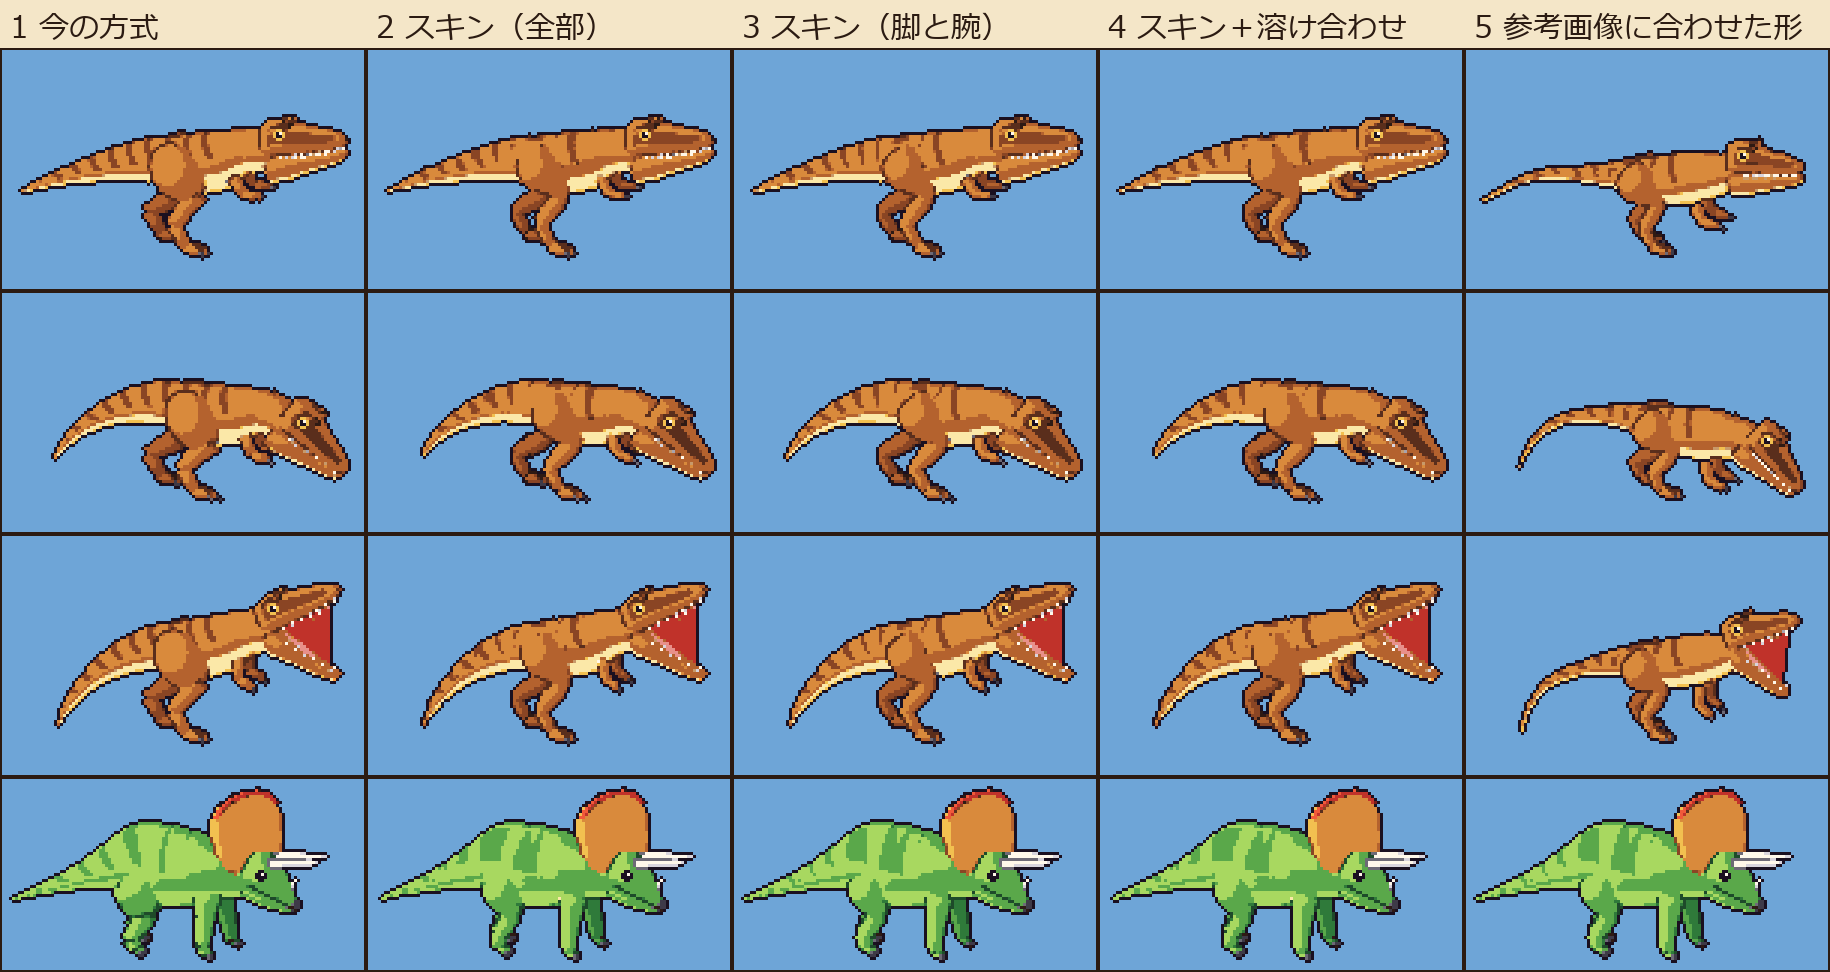
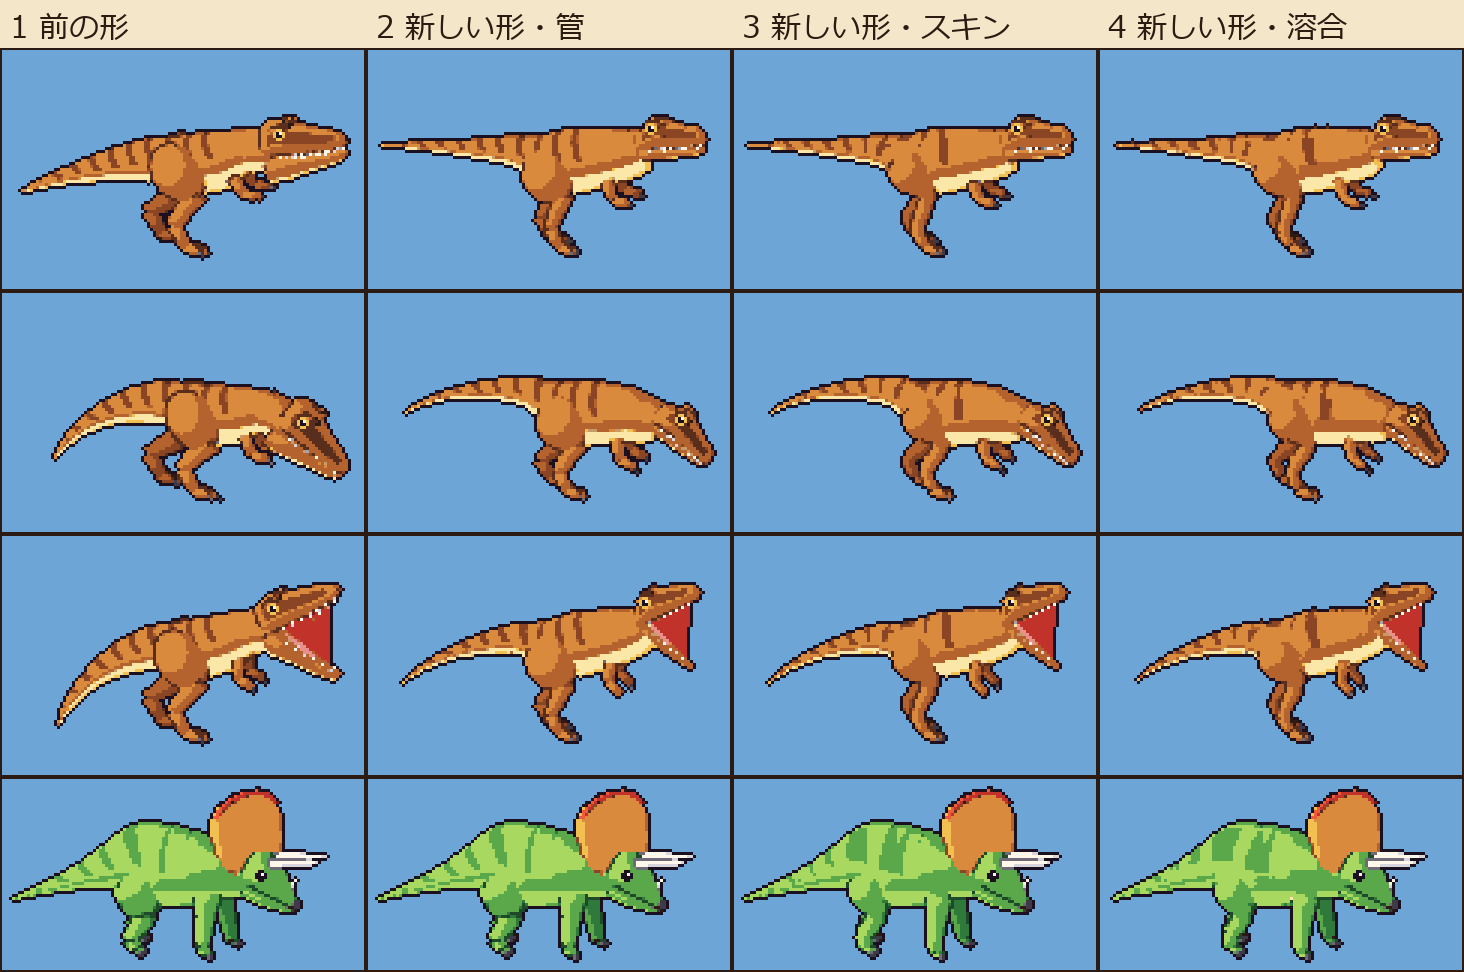
Rebuild the T-rex model from the kyouryu.info reference (trial, not in the game yet)
- New TYRANNO numbers measured from the side-view silhouette (overlap 55% -> about 82%); previous shape kept as TYRANNO_PREV (--prev)
- Comparison page now shows the previous shape and the rebuilt shape with three build methods

diff --git a/art/output/model-options/index.js b/art/output/model-options/index.js
@@ -1,2 +1,2 @@
 // art/model_options.py が自動で書き出すファイル。体の作り方の比較ページ（tools/models.html）用
-window.EYE_OPT = {"options":{"1":"1 今の方式","2":"2 スキン（全部）","3":"3 スキン（脚と腕）","4":"4 スキン＋溶け合わせ","5":"5 参考画像に合わせた形"},"dinos":{"tyranno":{"w":128,"h":96,"n":22,"anims":{"idle":{"s":0,"n":4,"ms":[220,200,220,200],"loop":true,"box":[11,26,122,76]},"hit":{"s":4,"n":2,"ms":[160,160],"loop":false,"box":[13,21,121,76]},"faint":{"s":6,"n":3,"ms":[180,200,400],"loop":false,"box":[10,18,120,83]},"bite":{"s":9,"n":7,"ms":[200,300,120,160,90,90,160],"loop":false,"box":[8,14,124,76]},"roar":{"s":16,"n":6,"ms":[260,260,160,90,90,200],"loop":false,"box":[9,8,123,76]}},"diet":"carnivore","sheets":{"1":"art/output/model-options/tyranno_1.png","2":"art/output/model-options/tyranno_2.png","3":"art/output/model-options/tyranno_3.png","4":"art/output/model-options/tyranno_4.png","5":"art/output/model-options/tyranno_5.png"},"gy":25.5,"eye0":[97.5,34.2]},"triceratops":{"w":128,"h":96,"n":4,"anims":{"idle":{"s":0,"n":4,"ms":[240,220,240,220],"loop":true,"box":[13,17,122,76]}},"diet":"herbivore","sheets":{"1":"art/output/model-options/triceratops_1.png","2":"art/output/model-options/triceratops_2.png","3":"art/output/model-options/triceratops_3.png","4":"art/output/model-options/triceratops_4.png","5":"art/output/model-options/triceratops_5.png"},"gy":25.3,"eye0":[97.4,46.9]}},"iou":{"tyranno":{"1":0.3,"2":0.303,"3":0.294,"4":0.303,"5":0.592},"triceratops":{"1":0.764,"2":0.765,"3":0.763,"4":0.765,"5":0.763}}};
+window.EYE_OPT = {"options":{"1":"1 前の形","2":"2 新しい形・管","3":"3 新しい形・スキン","4":"4 新しい形・溶合"},"dinos":{"tyranno":{"w":128,"h":96,"n":22,"anims":{"idle":{"s":0,"n":4,"ms":[220,200,220,200],"loop":true,"box":[11,26,122,76]},"hit":{"s":4,"n":2,"ms":[160,160],"loop":false,"box":[13,21,121,76]},"faint":{"s":6,"n":3,"ms":[180,200,400],"loop":false,"box":[10,18,120,83]},"bite":{"s":9,"n":7,"ms":[200,300,120,160,90,90,160],"loop":false,"box":[8,14,124,76]},"roar":{"s":16,"n":6,"ms":[260,260,160,90,90,200],"loop":false,"box":[9,8,123,76]}},"diet":"carnivore","sheets":{"1":"art/output/model-options/tyranno_1.png","2":"art/output/model-options/tyranno_2.png","3":"art/output/model-options/tyranno_3.png","4":"art/output/model-options/tyranno_4.png"},"gy":25.5,"eye0":[97.5,34.2]},"triceratops":{"w":128,"h":96,"n":4,"anims":{"idle":{"s":0,"n":4,"ms":[240,220,240,220],"loop":true,"box":[13,17,122,76]}},"diet":"herbivore","sheets":{"1":"art/output/model-options/triceratops_1.png","2":"art/output/model-options/triceratops_2.png","3":"art/output/model-options/triceratops_3.png","4":"art/output/model-options/triceratops_4.png"},"gy":25.3,"eye0":[97.4,46.9]}},"iou":{"tyranno":{"1":0.551,"2":0.8,"3":0.816,"4":0.826},"triceratops":{"1":0.764,"2":0.764,"3":0.763,"4":0.765}}};

diff --git a/tools/models.html b/tools/models.html
@@ -3,7 +3,7 @@
 <head>
 <meta charset="utf-8">
 <meta name="viewport" content="width=device-width, initial-scale=1">
-<title>DINO DUEL 体の作り方の比較</title>
+<title>DINO DUEL ティラノの作り直し</title>
 <style>
   body { margin: 0; padding: 10px 6px 40px; background: #f4e6c8; color: #2b1b12; font-family: sans-serif; }
   h1 { font-size: 17px; margin: 4px 0 6px; }
@@ -29,9 +29,9 @@
 </style>
 </head>
 <body>
-<h1>体の作り方（モデリングの方式）の比較</h1>
+<h1>ティラノサウルスの作り直し</h1>
 <p class="note">恐竜の大きさは、<b>この画面でバトルをしたときと同じ</b>です（1ドット = <span id="ps"></span>px）。<br>
-1 今の方式（胴体は管、脚は管とだ円の筋肉）／2 スキンモディファイアで全部を1つに／3 胴体は管のまま、脚と腕だけスキンモディファイア／4 3 のあと全部を溶け合わせて1つに／5 3 の作り方で、ティラノの体と脚を参考画像に合わせた形。目はどれも案A。<br>
+1 前の形（2回目の確認で OK をもらった形）／2〜4 恐竜図鑑（kyouryu.info）の画像を参考に作り直した形。作り方だけちがう：2 今の作り方（胴体は管、脚は管とだ円の筋肉）・3 脚と腕をスキンモディファイアで・4 3 のあと全部を溶け合わせて1つに。目はどれも案A。トリケラトプスは作り方のちがいだけ。<br>
 <label><input type="checkbox" id="flip"> 相手側（左右反転）で見る</label></p>
 <div id="rows"></div>
 <script src="../art/output/model-options/index.js"></script>

diff --git a/art/model_options.py b/art/model_options.py
@@ -36,24 +36,23 @@ from pipeline.blender_path import find_blender
 ROOT = os.path.dirname(os.path.abspath(__file__))
 OUT = os.path.join(ROOT, "output", "model-options")
 KEYS = ["tyranno", "triceratops"]
-MODES = [("1", "", "1 今の方式"), ("2", "full", "2 スキン（全部）"), ("3", "limbs", "3 スキン（脚と腕）"), ("4", "fuse", "4 スキン＋溶け合わせ"),
-         ("5", "limbs+fit", "5 参考画像に合わせた形")]
-REFS = {"tyranno": "trex.png", "triceratops": "tricera.png"}
+MODES = [("1", "+prev", "1 前の形"), ("2", "", "2 新しい形・管"), ("3", "limbs", "3 新しい形・スキン"), ("4", "fuse", "4 新しい形・溶合")]
+REFS = {"tyranno": "ky_side_mask.png", "triceratops": "tricera.png"}
 BG = (110, 165, 215, 255)
 
 
 def renders_dir(mode):
-    return os.path.join(build.BUILD, "m_" + (mode or "base")[:2] + ("f" if mode.endswith("+fit") else ""))     # 短い名前（Windows のファイルの場所の長さの上限 260文字 をこえないように）
+    return os.path.join(build.BUILD, "m_" + (mode.split("+")[0] or "base")[:2] + ("p" if mode.endswith("+prev") else ""))     # 短い名前（Windows のファイルの場所の長さの上限 260文字 をこえないように）
 
 
 def render(mode):
     os.makedirs(renders_dir(mode), exist_ok=True)    # 先に作っておく（Blender からは新しいフォルダを作れないことがある）
     cmd = [find_blender(), "-b", "--factory-startup", "--python-exit-code", "1", "-P", os.path.join(ROOT, "blender", "render_all.py"), "--",
            "--out", renders_dir(mode), "--jobs", "dinos", "--only", ",".join(KEYS), "--profile", "--no-model"]
-    if mode:
+    if mode.split("+")[0]:
         cmd += ["--skin", mode.split("+")[0]]
-    if mode.endswith("+fit"):
-        cmd += ["--fit"]
+    if mode.endswith("+prev"):
+        cmd += ["--prev"]
     p = subprocess.run(cmd, stdout=subprocess.PIPE, stderr=subprocess.STDOUT, text=True, encoding="utf-8", errors="replace")
     if p.returncode != 0:
         print(p.stdout[-3000:])

diff --git a/art/blender/render_all.py b/art/blender/render_all.py
@@ -82,11 +82,11 @@ def main():
     p.add_argument("--skin", default="", help="体・脚・腕の作り方（full / limbs / fuse。common.py の SKIN）")
     p.add_argument("--profile", action="store_true", help="真横からの影絵も撮る（参考画像と比べる用）")
     p.add_argument("--no-model", action="store_true", help="3Dモデル（art/models/）を書きかえない")
-    p.add_argument("--fit", action="store_true", help="ティラノを、参考画像に合わせた体と脚にする（dinos.TYRANNO_FIT）")
+    p.add_argument("--prev", action="store_true", help="ティラノを前の形にする（dinos.TYRANNO_PREV。比べる用）")
     a = p.parse_args(argv)
     C.SKIN = a.skin or False
-    if a.fit:
-        dinos.use_fit()
+    if a.prev:
+        dinos.use_prev()
     global SAVE_MODELS
     SAVE_MODELS = not a.no_model
     os.makedirs(a.out, exist_ok=True)

diff --git a/WBS.md b/WBS.md
@@ -215,6 +215,7 @@
 - [ ] 2.2 OK のあと、全40種・すべての動きに反映
 
 ## 試作：体の作り方（モデリングの方式）を比べる（2026-10-02）
+- その後、参考画像を「恐竜図鑑（kyouryu.info）」に変えてティラノのモデルを作り直した（下）
 - 提案された方法（スキンモディファイアで関節の点に太さを付けて1つの形に／1回ごとに参考画像と比べて直す）を、今のプログラムで作る方式の中で試した
 - 比較：`tools/models.html`（バトルと同じ大きさ）・`art/output/model-options/compare.png`・`profile.png`（参考画像との重なり）。作り直し：`python art/model_options.py`
   1. 今の方式（胴体は管、脚は管とだ円の筋肉）
@@ -225,3 +226,11 @@
 - 参考画像との重なりを測って、今のティラノは「背中が高すぎ・しっぽが太く高すぎ・脚が長すぎ」とわかった（トリケラトプスは 76% で、ほぼ合っている）
 - ウロコのテクスチャは使わない（1ドットより小さく、消えるかちらつくため）。正面図はなし
 - [ ] どれにするか決めてもらう（ゲームの絵はまだ 1 のまま）
+
+## ティラノのモデルの作り直し（参考：恐竜図鑑 kyouryu.info・2026-10-02）
+- 参考画像：恐竜図鑑のティラノサウルスのページ（人と並べた横からの図・ななめ前の図・骨格の写真）。色は参考にしない。画像は手元だけで使い、リポジトリには入れない
+- 横からの図の影絵を「鼻先〜しっぽの先 = 3.8」にして、位置ごとに背中・おなか・頭の高さを測り、数字を決めた。ななめ前の図で、胸・首・太ももの太さを合わせた
+- 形：頭は大きく深い（全長の約20%）・首は太く上へ曲がる・背中は肩へ少し上がる・胸とおなかが深い・腰が高く脚が長い・しっぽは腰の高さで水平にまっすぐ
+- 参考画像との重なり：前の形 55% → 作り直し 80〜83%（作り方 2〜4）
+- 比較：`tools/models.html`（1 前の形・2〜4 作り直し）。前の形は `dinos.TYRANNO_PREV` に残す（`render_all.py --prev`）
+- [ ] 形と作り方を決めてもらう（ゲームの絵はまだ前の形のまま）
